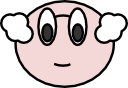
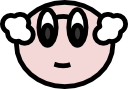
Tilting when changing direction. Tweaked prof

Changed region(s): [[0.0, 0.0227, 1.0, 0.9773], [0.4062, 0.6818, 0.5625, 0.7727]]

diff --git a/player.js b/player.js
@@ -1,4 +1,4 @@
-function Player(initX, initY, fuelEnabled, img, jumpImg, deadImg, jumpSounds, deadSounds, batterySounds) {
+function Player(initX, initY, fuelEnabled, img, jumpImg, deadImg, cloudImg, jumpSounds, deadSounds, batterySounds, tiltSounds) {
   this.x = initX;
   this.y = initY;
 
@@ -22,7 +22,7 @@ function Player(initX, initY, fuelEnabled, img, jumpImg, deadImg, jumpSounds, de
   this.jumping = false;
 
   this.dead = false;
-  this.rotateTime = 0;
+  this.tiltTime = 0;
 
   this.update = function(dt, keys) {
     this.nextX = this.x;
@@ -47,10 +47,14 @@ function Player(initX, initY, fuelEnabled, img, jumpImg, deadImg, jumpSounds, de
       }
     }
 
-    if(this.xVelocity != 0 && ((this.xVelocity > 0) != (this.direction > 0))) {
-      this.rotateTime = 300;
+    if(this.tiltTime == 0 &&
+       this.onGround && 
+       this.xVelocity != 0 && 
+       ((this.xVelocity > 0) != (this.direction > 0))) {
+      tiltSounds[Math.floor(Math.random()*tiltSounds.length)].play();
+      this.tiltTime = 300;
     }
-    this.rotateTime = Math.max(0, this.rotateTime - dt);
+    this.tiltTime = Math.max(0, this.tiltTime - dt);
 
     if(keys['jump'] && this.onGround) {
       this.yVelocity = this.jumpImpulse;
@@ -58,6 +62,7 @@ function Player(initX, initY, fuelEnabled, img, jumpImg, deadImg, jumpSounds, de
 
       if(!this.jumping) {
         this.jumping = true;
+        this.tiltTime = 0;
         jumpSounds[Math.floor(Math.random()*jumpSounds.length)].play();
       }
     }
@@ -92,9 +97,17 @@ function Player(initX, initY, fuelEnabled, img, jumpImg, deadImg, jumpSounds, de
     context.translate(this.x, this.y);
     context.scale(this.direction, 1);
 
-    if(this.rotateTime > 0) {
-      context.rotate(-0.5);
+    var rotation = 0;
+
+    if(this.tiltTime > 275) {
+      rotation = 0.3;
+    } else if(this.tiltTime > 100) {
+      rotation = 0.5;
+    } else if(this.tiltTime > 0) {
+      rotation = 0.3;
     }
+
+    context.rotate(-rotation);
 
     var image = img;
     if(this.jumping) {
@@ -107,15 +120,10 @@ function Player(initX, initY, fuelEnabled, img, jumpImg, deadImg, jumpSounds, de
 
     context.drawImage(image, -(img.width / 2), -(img.height / 2));
 
-    var rotation = 0;
-
-    if(this.rotateTime > 200) {
-      rotation = 0.3;
-    } else if(this.rotateTime > 100) {
-      rotation = 0.5;
-    } else if(this.rotateTime > 0) {
-      rotation = 0.3;
+    if(this.tiltTime > 0) {
+      context.drawImage(cloudImg, -60-((img.width + cloudImg.width) / 2), 75-(img.height / 2));
     }
+
     context.rotate(rotation);
 
     context.scale(this.direction, 1);

diff --git a/game.html b/game.html
@@ -79,6 +79,7 @@ $(function() {
   var jumpSounds = [new Audio("sounds/Jump1.wav"), new Audio("sounds/Jump2.wav"), new Audio("sounds/Jump3.wav")];
   var deadSounds = [new Audio("sounds/Dead.wav")];
   var batterySounds = [new Audio("sounds/Battery.wav")];
+  var tiltSounds = [new Audio("sounds/Tilt1.wav"), new Audio("sounds/Tilt2.wav")];
   var finishSound = new Audio("sounds/Finish.wav");
 
   var backImage = new Image();
@@ -114,6 +115,9 @@ $(function() {
   var profImage = new Image();
   profImage.src = "images/prof.png";
 
+  var cloudImage = new Image();
+  cloudImage.src = "images/cloud1.png";
+
   var playerImage = new Image();
   playerImage.src = "images/robot.png";
 
@@ -128,6 +132,7 @@ $(function() {
     game.batteries = [];
     game.dialogIndex = 0;
     game.dialog = level.dialog;
+    game.gameOver = false;
 
     game.dialogStartTime = 5000;
 
@@ -160,7 +165,7 @@ $(function() {
     game.exit = new Door(level.exit[0], level.exit[1], door1Image, door2Image, doorOpenImage);
     game.entities.push(game.exit);
 
-    game.player = new Player(level.entrance[0], level.entrance[1], level.fuelEnabled, playerImage, jumpImage, robotDeadImage, jumpSounds, deadSounds, batterySounds);
+    game.player = new Player(level.entrance[0], level.entrance[1], level.fuelEnabled, playerImage, jumpImage, robotDeadImage, cloudImage, jumpSounds, deadSounds, batterySounds, tiltSounds);
     
     game.collison = new CollisionManager(game.player, game.entities);
 
@@ -204,6 +209,11 @@ $(function() {
         game.dialogStartTime = 5000;
       }
       dialogOn = game.dialogIndex < game.dialog.length;
+
+      if(!dialogOn && game.gameOver) {
+        levelIndex = 0;
+        reset(levels[levelIndex]);
+      }
     }
 
     if(game.zoom > game.targetZoom) {
@@ -245,6 +255,7 @@ $(function() {
         game.restartTimer = 10000;
         game.dialogStartTime = 5000;
         game.dialog = [["Thanks so much. I'll get that", "battery fixed right up!"], ["Game over", "Press <N> to start over."]];
+        game.gameOver = true;
       }
     }
 
